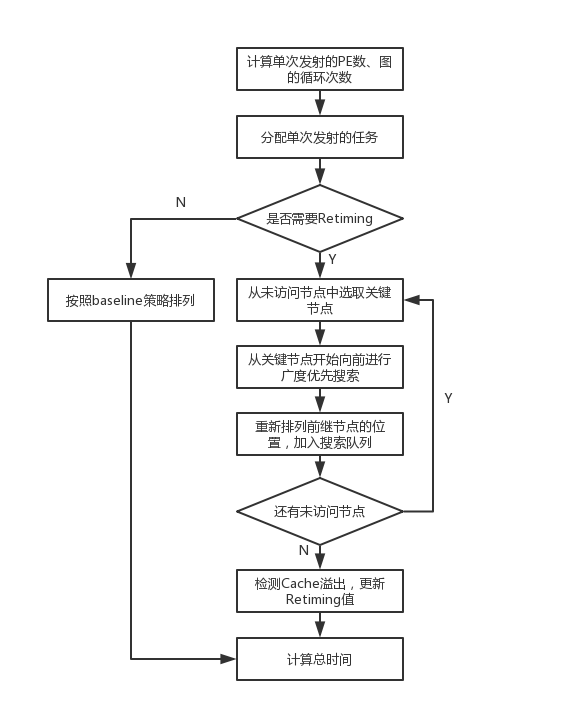
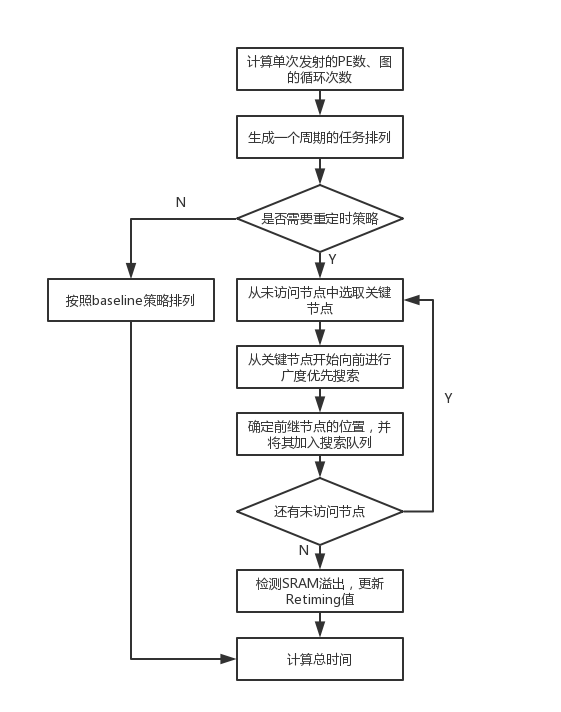
update document

diff --git a/doc/document.md b/doc/document.md
@@ -56,11 +56,11 @@ CNN的高准确率和适用性促进了许多AI应用的诞生，如DeepFace，P
 
 **定义：**有向无环图DAG，$G=(V,E,P,R)$，其中$V$表示节点集合，$V=\{T_1, \ldots, T_n\}$；$E$表示边集合，$，E\subseteq V\times V$，$(T_i, T_j)\in E$，其中$T_i,T_j\in V$，边个数是$m$；$N_{PE}$表示PE个数；$R$表示图$G$的重定时次数。其中$T^l_i(s^l_i, c^l_i, d^l_i, e^l_i,tp^l_i)$表示第$l$次循环的第$i$个节点的开始时间$s^l_i$，执行时间$c^l_i$，结束时间$d^l_i$，所在PE$e^l_i$，拓扑序$tp^l_i$。$I^l_{i,j}(s^l_{i,j}, c^l_{i,j}, d^l_{i,j})$表示第$l$次循环节点$T_i$到$T_j$的边的开始时间$s^l_{i,j}$，内存消耗$c^l_{i,j}$，结束时间$d^l_{i,j}$。
 
-**定义：**$p$表示图$G$需要循环的次数。
+**定义：**$X$表示图$G$需要循环的次数。
 
 ## 输出
 
-* 图$G$循环$p$次所需要的总时间$T$ 
+* 图$G$循环$X$次所需要的总时间$C$ 
 
 ## 流程
 
@@ -74,7 +74,9 @@ CNN的高准确率和适用性促进了许多AI应用的诞生，如DeepFace，P
 
 **定义2（发射Launch）：**多个在相同的PE上的周期组成的集合。
 
-**定义3（周期利用率$U_L$）：**$U_{L}=\displaystyle\frac{p_{L}\times \displaystyle\sum_{V_{i}\in V}c_{i}}{h\times t_L}$，其中$t_L$表示周期的最大时间消耗，$c_{i}$表示任务节点$T_{i}$的执行时间。
+**定义3（周期利用率$U_L$）：**$U_{L}=\displaystyle\frac{X_{p}\times \displaystyle\sum_{V_{i}\in V}c_{i}}{h\times t_L}$，其中$t_L$表示周期的最大时间消耗，$c_{i}$表示任务节点$T_{i}$的执行时间。
+
+**定义4（重定时Retiming）：**对图$G=(V,E,P,R)$，重定时$R$是将节点$T_i$与一个非负整数$R(i)$映射起来，初始$R(i)=0$。一旦节点$T_i$需要进行一次重定时，则$R(i)=R(i)+1$，同时一个周期的操作$T_i$被重新分配到前序之中。
 
 ### 1. 计算每次发射的PE数$h$、图的执行次数$p_L$
 
@@ -85,16 +87,16 @@ CNN的高准确率和适用性促进了许多AI应用的诞生，如DeepFace，P
 > 若$N_{PE}\% h_G==0$，
 >
 > * $h=h_G$
-> * $p_{L}=\lceil I/H\rceil$
+> * $X_{L}=\lceil I/H\rceil$
 >
 > 若$N_{PE}\%h_G\neq0$，
 >
 > * $\begin{cases}h=h_G&Previous\;H-1\;Launchs\\h=N_{PE}\%h_G&Last\;one\;Launch\end{cases}$
-> * 若设前$H-1$次发射每次循环$p_{x}$次，最后一次发射循环$p_{y}$次。故$(p_{x},p_{y})$需要满足$p=(H-1)\times p_{x}+p_{y}$。对所有满足的$(p_{x}, p_{y})$选取使总时间$T$最小的一组$(p_{x},p_{y})$。
+> * 若设前$H-1$次发射每次循环$X_{x}$次，最后一次发射循环$X_{y}$次。故$(X_{x},X_{y})$需要满足$X=(H-1)\times X_{x}+X_{y}$。对所有满足的$(X_{x}, X_{y})$选取使总时间$T$最小的一组$(X_{x},X_{y})$。
 
 ### 2. 生成周期的任务排列
 
-对于一个包含$h$个PE的周期，不同的任务排列对最终的结果有着很大的影响。若直接按照顺序把所有任务节点依次排列在4个PE上，可以一个周期的时长是？个单位时间，利用率是？？。通过观察可以发现，因为图G中有一个长节点$T_4$，它的运行时间远大于其他的运行节点，它对周期的时长和利用率起到了决定性作用。
+对于一个包含$h$个PE的周期，不同的任务排列对最终的结果有着很大的影响。若直接按照顺序把所有任务节点依次排列在4个PE上，可以一个周期的时长是8个单位时间，利用率是84.4%。通过观察可以发现，因为图G中有一个长节点$T_4$，它的运行时间远大于其他的运行节点，它对周期的时长和利用率起到了决定性作用。
 
 ![按拓扑序列排列](./pic/TopologyArrange.png)
 
@@ -102,7 +104,7 @@ CNN的高准确率和适用性促进了许多AI应用的诞生，如DeepFace，P
 
 ![算法排列](./pic/OurArrange.png)
 
-$p_{L}$的值依据$U_{L}$来确定。每按照上述算法排列一次图$G$，$p_{L}\leftarrow p_{L}+1$，并重新计算一下当前的利用率$U$，若$U\ge U_{L}$，则停止排列；若$p_{L}\ge p_{limited}$，则停止排列，选择之前计算得到的最大的$U_{L}$。
+$X_{p}$的值依据$U_{p}$来确定。每按照上述算法排列一次图$G$，$X_{p}\leftarrow X_{p}+1$，并重新计算一下当前的利用率$U_p$，若$U_p\ge U_{limited}$，则停止排列；若$X_{p}\ge X_{limited}$，则停止排列，选择之前计算得到的最大的$U_{p}$。
 
 > **Input**
 >
@@ -112,13 +114,13 @@ $p_{L}$的值依据$U_{L}$来确定。每按照上述算法排列一次图$G$，
 >
 > $h\;of\;tasks\;that\;are\;concureently\;execeuted\;within\;same\;layer$
 >
-> $the\;threshold\;PE's\;utilization\;ratio\;U_l$
+> $the\;threshold\;PE's\;utilization\;ratio\;U_{limited}$
 >
-> $the\;max\;repeat\;times\;p_l\;of\;tasks\;in\;same\;iteration$
+> $the\;max\;repeat\;times\;X_{limited}\;of\;tasks\;in\;same\;iteration$
 >
 > **Output**
 >
-> $An\;initial\;schedule\;with\;p_{per}\;repeat\;times\;tasks$
+> $An\;initial\;schedule\;with\;X_{p}\;repeat\;times\;tasks$
 >
 > **Content**
 >
@@ -126,41 +128,55 @@ $p_{L}$的值依据$U_{L}$来确定。每按照上述算法排列一次图$G$，
 >
 > $Sort(V) \;first\; by \;c_i\;,second\; by\; tp_{i}$
 >
-> $While\; U_{L}\lt U_{limited}\;and\;p_{L}\lt p_{limited}:$
+> $While\; U_{p}\lt U_{limited}\;and\;X_{p}\lt X_{limited}:$
 >
 > $\quad For\;each \;task\;T_j\in V:$
 >
 > $\quad\quad Assign\;T_j\;to \;a\;PE\;in\;PIM\;with\;the\;earliest\;available\;time$
 >
-> $\quad p_{L}\leftarrow p_{L}+1$
+> $\quad X_{p}\leftarrow X_{p}+1$
 >
-> $\quad Calculate\;U$
+> $\quad Re-Calculate\;U_p$
 >
-> $If\;p_{L}==p_{limited}:$
+> $If\;X_{p}==X_{limited}:$
 >
-> $\quad Choose\;p_{L}\;with\;max\;U_{L}$
+> $\quad Choose\;X_{p}\;with\;max\;U_{p}$
 >
-> $Rearrange\;p_{L}\;times\;tasks\;with\;same\;strategy$
+> $Rearrange\;X_{p}\;times\;tasks\;with\;same\;strategy$
 
-时间复杂度：$O(p_{L}\times n\times logh)$
+时间复杂度：$O(X_{p}\times n\times log\;h)$
 
-### Step Three：判断是否需要Retiming
+### 3. 判断是否需要采取进行重定时策略
 
-![简单排列](./pic/Baseline.png)
+![简单排列](./pic/BaseLine.png)
 
-**定义：**$T_{nor}$是按照上图排列所需要花费的总时间；$T_{est}$是当前算法的估计时间。
+设$C_{b}$是按照BaseLine的调度策略所需要花费的总时间、$C_{e}$是利用重定时技术的估计时间。
 
-若$T_{est}\gt T_{nor}$，则按照上图排列。
+若$C_{b}\gt C_{e}$，则按照BaseLine的调度策略。
 
-计算$T_{est}$：固定步骤二中的$p_{per}$为1，计算得出前序时间$Pre_{est}$和周期时间$ub_{est}$。则$T_{est}\leftarrow Pre_{est}+p\times ub_{est}$
+计算$C_{e}$：在步骤二中，设置$p_{limited}\leftarrow1$，$h\leftarrow N_{PE}$，得出一个周期的排列。计算得出前序时间$C_{prelogue}$和周期时间$C_{p}$。则$C_{e}\leftarrow C_{prelogue}+X\times C_{p}$
 
-### Step Four：从关键节点开始向前扩散，确定周期内节点的位置
+### 4. 确定周期内每个任务节点的最终位置
 
-考虑到图$G$中有一些执行时间远大于其他的任务节点，他们在PE上的排列将影响整个图$G$的重定时次数$R$，所以需要先确定他们的位置。
+在步骤二中，我们生成了每个周期的初始排列，但是在生成这个排列的时候没有考虑任务之间的依赖关系，仅仅是考虑到每个任务的时间长短。那么在后续的调度时，通过调整初始排列中的任务节点的位置，以更好的满足任务之间的依赖关系。
+
+为了方便调整位置，我们首先确定一个顺序来依次调整任务节点的位置，先确定了位置的任务节点将不再会移动位置。根据之前对任务节点耗时的分析，关键节点在位置排列的时候会对其他节点的重定时值产生较大的影响。（<u>*是否需要举例说明*</u>）故本文的策略是从关键节点开始，按照拓扑序从后往前开始扩散。每次扩散时都标记已访问的节点，当扩散完成后，再从未访问的节点中选择新的关键节点继续开始扩散，直到所有节点都被访问过一次。
+
+以下面这个例子来解释扩散的过程。
 
 ![扩散过程](./pic/Spread.png)
 
-利用第四步所获取的关键节点集合$S_{Key}$，对其中的节点来确定其前继和后继节点的位置。当$S_{Key}$为空后，从未访问的节点集合$S_{UC}$中再次获取关键节点集合。
+图（a）中选择了关键节点$T_4$作为扩散的起始节点。从图（a）到图（c）展示了第一次的扩散过程。图（d）从未访问过的节点$T_5,T_6$中重新选择了关键节点$T_6$作为新的扩散起始节点。图（e）从$T_6$扩散至$T_5,T_4$，因为$T_4$已经被访问过，所以只需要它的位置不需要再进行改变。若$T_4$和$T_6$的位置之间的距离不满足边$I_{4,6}$的所需要的时间消耗的长度，则需要对$T_4$做重定时操作。当$R(4)$的值发生改变后，与其相连的前继节点对应的$R(i)$也需要更新。为了避免重复更新，在$R(4)$更新后，仅仅标记$T_4$节点，等待所有的节点都访问完成后，再从拓扑序最大的标记节点开始向前更新。
+
+对边$I_{3,4}$，若$T_2, T_4$的位置已经固定，下面解释如何确定$T_3$的位置，如下图，
+
+![place1](./pic/place1.png)
+
+因为$I_{3,4}$在SRAM中需要消耗2个单位时间，所以同一个周期内的$T_3$节点不满足要求，只能先看前一个周期的$T_3$节点。周期1的$T_3$与周期2的$T_4$节点之间相差3个单位时间，所以我们可以通过移动$T_1$或$T_5$的位置，是$T_3$与$T_4$之间刚好相差2个单位之间，得到如下的排列。
+
+![place2](./pic/place2.png)
+
+接下来再用同样的策略去确定其他的节点位置，直到所有的节点位置均已确定。
 
 >**Input**
 >
@@ -174,89 +190,44 @@ $p_{L}$的值依据$U_{L}$来确定。每按照上述算法排列一次图$G$，
 >
 >$SpreadFromKeyNodeSet():$
 >
->$Q_{wait}\leftarrow \emptyset$
+>$Q\leftarrow \emptyset$
 >
 >$do\; \{$
 >
->$\quad Get\;keynode\;set\;S_{Key}\;from\;an\;unchecked\;node\;set$
+>$\quad Get\;keynode\;set\;V_{keynode}\;from\;V_{unchecked}$
 >
->$\quad For\;each\;task\;T^l_i\in S_{UC}:$
+>$\quad For\;each\;task\;T^l_i\in V_{keynode}:$
 >
->$\quad \quad ENQUEUE(Q_{wait}, T^l_i) $
+>$\quad\quad Put\;T^l_iin\;nearest\;position,update\;s^l_i\;and\;d^l_i$
 >
->$\quad \quad While\; Q_{wait}\neq \emptyset:$
+>$\quad \quad ENQUEUE(Q, T^l_i) $
 >
->$\quad \quad \quad T^l_i\leftarrow DEQUEUE(Q_{wait})$
+>$\quad While\; Q\neq \emptyset:$
 >
->$\quad\quad \quad ArrangeKeyNode(T^l_i, Q_{wait})$
+>$\quad \quad T^l_i\leftarrow DEQUEUE(Q)$
 >
->$\}\;While(S_{UC}\neq \emptyset);$
+>$\quad\quad For\;each\;edge\;I^l_{ji}\in E$
+>
+>$\quad\quad\quad Put\;T^l_j\;in\;nearest\;position,update\;s^l_j\;and\;d^l_j$
+>
+>$\quad\quad\quad ENQUEUE(T^l_j)$
+>
+>$\}\;While(V_{unchecked}\neq \emptyset);$
 
-时间复杂度：$O(I_{per}\times m )$
+时间复杂度：$O(X_{p}\times m )$
 
-### Step Five：确定关键节点$T^l_i$的位置，并根据入度边确定前继节点的位置。
+### 5. 利用动态规划来分配任务的中间传输的数据存储位置
 
-在第二步中仅仅确定了每个PE中安排的任务节点都有哪些，但每个任务节点位置都是可以相互交换的。
+考虑到SRAM的容量有限，我们无法将所有的中间结果都存储在SRAM中，必定有一部分的中间结果需要存储到DRAM中。而选哪些中间结果存储到DRAM中，这可以被抽象成一个动态规划问题。
 
-**定义：**每个PE$E_k(s_j,d_j)$，其中$s_j$表示第$k$个PE上的第$j$个空闲区间的开始时间，$d_j$表示第$k$个PE上的第$j$个空闲区间的结束时间。
+假设有$m$个中间结果，即$\{I_1,\ldots,I_k,\ldots,I_m\}$。设$\mathbb B[S][k]$表示前$k$个中间结果，在容量为$S$的SRAM中能存储的最大容量。那么可以得到状态转移方程。
+$$
+\mathbb B[S][k]=
+\begin{cases}
+\mathbb B[S][k-1]&if\;I_k\gt S
+\\
+max\{\mathbb B[S][k-1],\mathbb B[S-I_k][k-1]+I_k\} & if \;I_k\le S
+\end{cases}
+$$
+当计算完$\mathbb B[S][m]$后，通过回溯法得到最优解。对放入DRAM的中间结果，与扩散方法类似的更新其所连接的节点的重定时值，最终计算出总共需要的时间。
 
-初始，每个PE上都只有一个空闲区间$[s_0, d_0]$，其中$s_0\leftarrow 0$，$d_0\leftarrow ub$。每个PE上的任务节点都属于自己PE的空闲区间。
-
-接下来分为两个步骤：
-
-1. 确定节点$T^l_i$的位置。
-
-   将其放在它所属区间的最前面，即$s^l_i\leftarrow s_j$，$d^l_i\leftarrow s_j+c^l_i$。
-
-2. 确定$T^l_i$的前继节点的位置。
-
-   考虑入度边$I^l_{j,i}$，即$T^l_j$到$T^l_i$的边。默认都将传输的数据放入Cache中，等所有的都完成后，再检测Cache溢出。
-
-   若前继节点$T^l_j$未被访问过，根据$I^l_{j,i}$在Cache上的代价$P_{\alpha}(I^l_{j,i})$，得出$T^l_j$的最晚开始开始时间$s^l_j\leftarrow s^l_i - P_{\alpha}(I^l_{j,i})-c^l_j$。再将$T^l_j$所在的空闲区间中的其他节点填充在区间$[s_i, d_i]$的前面，调整$s^l_j\leftarrow s^l_j-shift$，$shift$是节点$T^l_j$根据填充的结果，向前的偏移量。
-
-   若前继节点$T^l_j$已经被访问过，根据$P_{\alpha}(I^l_{j,i})$更新$R(T^l_j)$。
-
-> **Input**
->
-> $Key\;Node\;T^l_i$
->
-> $Wait\;queue\;Q_{wait}$
->
-> **Output**
->
-> $Wait\;queue\;after\;update\;Q_{wait}$
->
-> $A\;set\;tasks\;S_{RC}\;to\;be\;rechecked$
->
-> **Content**
->
-> $ArrangeKeyNode(T^l_i, Q_{wait}):$
->
-> $s^l_i\leftarrow s_{j},d^l_i\leftarrow s_j+c^l_i$
->
-> $For\;each\;edge\;I^l_{ji}\in E:$
->
-> $\quad If\;T^l_j\;is\;certained:$
->
-> $\quad\quad Update\;R(T^l_j)$
->
-> $\quad\quad ENSET(S_{RC}, T^l_j)$
->
-> $\quad else:$
->
-> $\quad\quad Calculate\;s^l_j$
->
-> $\quad\quad ENQUEUE(Q_{wait}, T^l_j)$
-
-时间复杂度：$O(E)$
-
-### Step Six：检测Cache溢出，更新溢出节点的Retiming；重新Check，更新Retiming值
-
-因为Local Cache的容量有限，对溢出的边采用动态规划的方法选择部分放入Cache，剩下的放入DRAM，尽可能的有效利用Local Cache。
-
-如第五步中的最后一个图所示，通过$S_{RC}$集合中所标记的节点，按照拓扑序列大小，从大到小重新更新$Retiming$值。
-
-# 改进
-
-2. 解释Retiming
-3. 解释挪动位置
